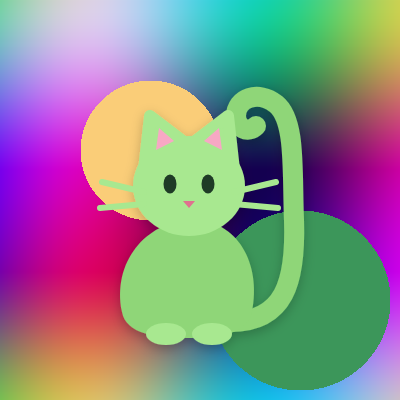
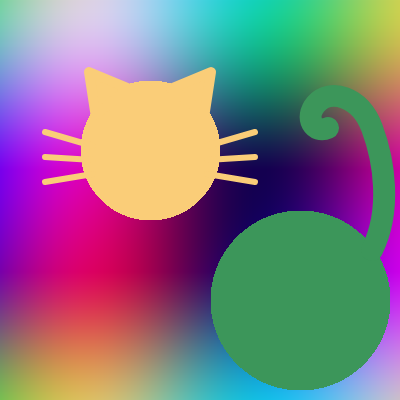
Make the Cat preset Aurora's own circles: ears and whiskers on the head, a tail on the body
Claude-Session: https://claude.ai/code/session_01HdwoHh6qH3g26qfBq7kKXs

Changed region(s): [[0.24, 0.15, 0.99, 0.87], [0.09, 0.3, 0.21, 0.48], [0.21, 0.15, 0.33, 0.3]]

diff --git a/CLAUDE.md b/CLAUDE.md
@@ -350,10 +350,11 @@ Web: `avatarPresets` in `support/account.ts`, image
 `web/public/avatars/avatar-cat.png`.
 
 - A 17th avatar preset, "Cat": the Aurora image (rainbow blur with the yellow
-  and green circles) with a flat light green cat sitting in front, in the
-  same solid-shape style as the circles: pointed ears with pink insides,
-  dark eyes, a pink nose, whiskers, two front paws, and a tall tail up the
-  right side that curls over at the top. A soft shadow under it.
+  and green circles) turned into a cat. The yellow circle is the head: two
+  pointed ears on top and three whiskers out of each side, all in the same
+  yellow. The green circle is the body: a thick tail in the same green rises
+  from its right side and curls over at the top. Flat, no face, no shadow,
+  like the circles.
 - It comes second in the Presets grid, right after Aurora, labelled "Cat".
 - iOS: copy `web/public/avatars/avatar-cat.png` (400 × 400) to
   `TaskMng/Resources/Avatars/`, and add `cat` after `aurora` in
